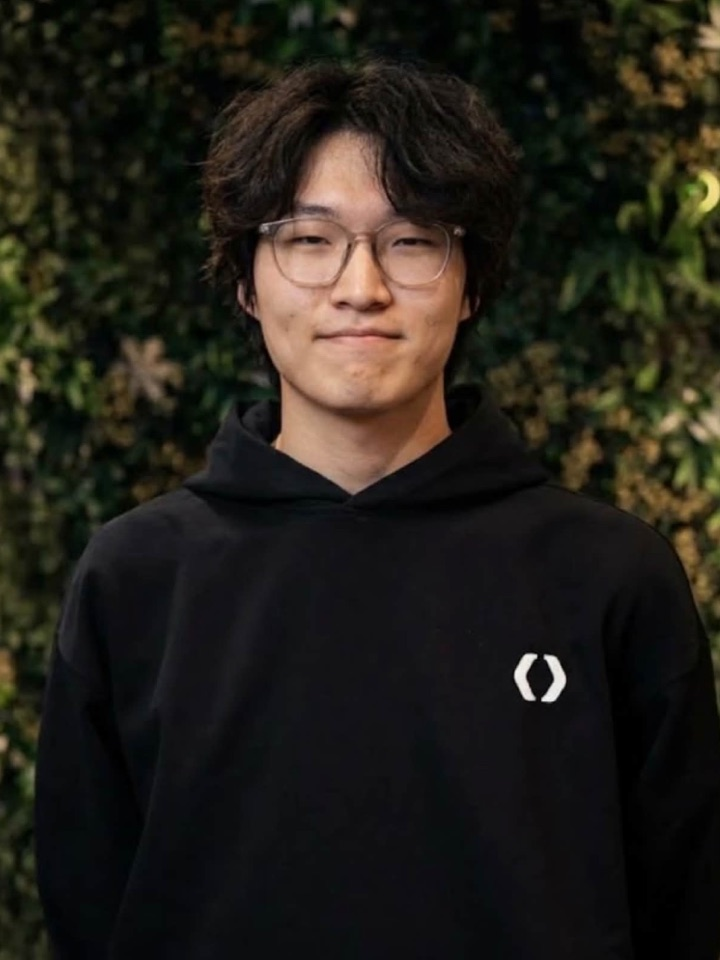
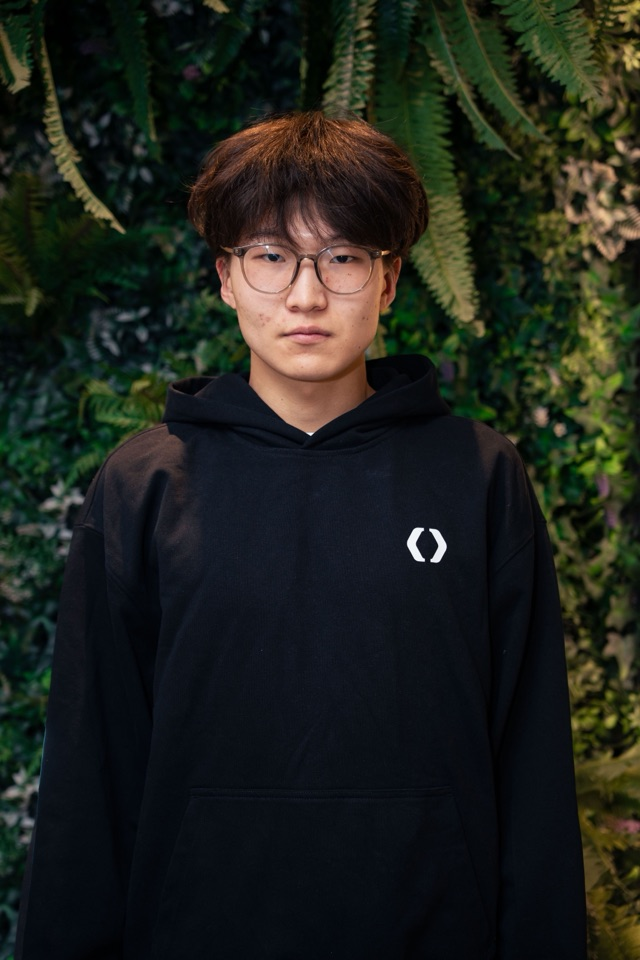
fixed clerk

diff --git a/apps/rareAppMn/rareAppMn-web/src/lib/clerk-ui.ts b/apps/rareAppMn/rareAppMn-web/src/lib/clerk-ui.ts
@@ -39,15 +39,29 @@ export const clerkAppearance = {
   // Clerk's own 14px size and line height stay as they were elsewhere).
   // Below lg: 44px-tall fields and buttons, and invisible 44px tap areas
   // (tap-area/tap-target in global.css) on Clerk's small controls.
+  // Buttons match the site's pills (Navbar): flat ink, bold uppercase, accent
+  // on hover, no Clerk gradient sheen (::after) or arrow icon.
   elements: {
     cardBox: "rounded-2xl border border-ink/10 shadow-none",
-    headerTitle: "font-bold tracking-tight",
+    headerTitle: "text-xl font-bold tracking-tight",
+    headerSubtitle: "leading-relaxed text-ink-soft",
     formButtonPrimary:
-      "rounded-full font-semibold uppercase tracking-wider shadow-none transition-colors duration-200 hover:bg-accent max-lg:min-h-11",
-    socialButtonsBlockButton: "rounded-full max-lg:min-h-11",
-    formFieldInput: "rounded-xl max-sm:text-base max-lg:min-h-11",
-    otpCodeFieldInput: "rounded-xl max-sm:text-base",
-    formFieldInputShowPasswordButton: "max-lg:tap-area",
+      "h-10 rounded-full bg-ink text-[13px] font-bold uppercase tracking-wider text-paper shadow-none transition-colors duration-200 after:hidden hover:bg-accent focus-visible:shadow-[0_0_0_2px_var(--card),0_0_0_4px_var(--accent)] disabled:opacity-50 max-lg:min-h-11",
+    buttonArrowIcon: "hidden",
+    socialButtonsBlockButton:
+      "h-10 rounded-full text-ink shadow-[0_0_0_1px_var(--border-ink)] transition-colors duration-200 hover:bg-ink/[0.04] hover:shadow-[0_0_0_1px_var(--ink)] focus-visible:shadow-[0_0_0_2px_var(--accent)] max-lg:min-h-11",
+    socialButtonsBlockButtonText: "font-semibold text-ink",
+    formFieldInput:
+      "h-10 rounded-xl max-sm:text-base max-lg:min-h-11 focus-visible:shadow-[0_0_0_2px_var(--accent)]",
+    formFieldErrorText: "text-destructive",
+    // One wide tap area (Clerk's hidden input spans the row), so the boxes
+    // can stay 40-44px wide and still fit a 375px screen.
+    otpCodeFieldInputs: "gap-2",
+    otpCodeFieldInput: "h-12 w-10 rounded-xl text-lg font-semibold sm:w-11",
+    otpCodeFieldErrorText: "text-destructive",
+    formResendCodeLink:
+      "font-semibold text-accent hover:text-accent disabled:font-normal disabled:text-ink-soft disabled:opacity-100 max-lg:tap-target",
+    footerActionText: "text-ink-soft",
     footerActionLink: "font-semibold text-accent hover:text-accent max-lg:tap-target",
     formFieldAction: "text-accent hover:text-accent max-lg:tap-target",
     identityPreviewEditButton: "text-accent max-lg:tap-area",
@@ -57,6 +71,20 @@ export const clerkAppearance = {
     menuButton: "max-lg:tap-area",
     // Sits just above "add email"/"connect account": widen it, not taller.
     menuButtonEllipsis: "max-lg:after:absolute max-lg:after:-inset-x-2.5 max-lg:after:inset-y-0",
+  },
+} satisfies ClerkAppearance;
+
+/**
+ * <SignIn /> and <SignUp /> only: one flat card like the site's own (Clerk
+ * otherwise raises the form on top of a tinted footer), as wide as the
+ * column in AuthPageShell.
+ */
+export const authCardAppearance = {
+  elements: {
+    rootBox: "w-full",
+    cardBox: "w-full",
+    card: "rounded-none bg-card px-5 py-8 shadow-none sm:px-10",
+    footer: "border-t border-ink/10 bg-card",
   },
 } satisfies ClerkAppearance;
 
@@ -103,14 +131,10 @@ const MN_OVERRIDES = {
     action__openUserMenu: "Хэрэглэгчийн цэс нээх",
     action__closeUserMenu: "Хэрэглэгчийн цэс хаах",
   },
-  formFieldInputPlaceholder__signUpPassword: "Нууц үг үүсгэх",
   formFieldInput__emailAddress_format: "Жишээ: name@example.com",
   formFieldLabel__passkeyName: "Passkey-н нэр",
   signIn: {
     start: { titleCombined: "{{applicationName}} руу үргэлжлүүлэх" },
-    passwordPwned: { title: "Нууц үг алдагдсан байна" },
-    passwordCompromised: { title: "Нууц үг алдагдсан байна" },
-    passwordUntrusted: { title: "Нууц үг найдваргүй байна" },
     emailLink: {
       clientMismatch: {
         title: "Энэ төхөөрөмж дээр баталгаажуулах холбоос ажиллахгүй",
@@ -150,6 +174,15 @@ const MN_OVERRIDES = {
       },
     },
   },
+  // mnMN's versions read like machine translation ("identifier not found",
+  // "the form's code is wrong"); the "exists" one is missing (English).
+  unstable__errors: {
+    form_identifier_not_found:
+      "Энэ имэйл хаягаар бүртгэл олдсонгүй. Доорх «Бүртгүүлэх» холбоосоор бүртгүүлнэ үү.",
+    form_identifier_exists__email_address:
+      "Энэ имэйл хаяг бүртгэлтэй байна. Доорх «Нэвтрэх» холбоосоор нэвтэрнэ үү.",
+    form_code_incorrect: "Код буруу байна. Дахин оролдоно уу.",
+  },
   userProfile: {
     emailAddressPage: {
       formHint: "Имэйл хаягийг бүртгэлдээ нэмэхийн өмнө баталгаажуулах шаардлагатай.",
@@ -165,14 +198,6 @@ const MN_OVERRIDES = {
         menuAction__destructive: "Устгах",
       },
     },
-  },
-  unstable__errors: {
-    form_password_matches_identifier:
-      "Нууц үг таны имэйл, утасны дугаар эсвэл хэрэглэгчийн нэртэй адил байж болохгүй. Өөр нууц үг сонгоно уу.",
-    form_password_pwned__sign_in:
-      "Энэ нууц үг алдагдсан нууц үгсийн жагсаалтад байгаа тул ашиглах боломжгүй. Нууц үгээ сэргээнэ үү.",
-    form_password_untrusted__sign_in:
-      "Таны нууц үг алдагдсан байж болзошгүй. Өөр аргаар нэвтэрнэ үү; нэвтэрсний дараа нууц үгээ солих шаардлагатай.",
   },
 } satisfies ClerkLocalization;
 

diff --git a/apps/rareAppMn/rareAppMn-web/src/components/auth/AuthPageShell.tsx b/apps/rareAppMn/rareAppMn-web/src/components/auth/AuthPageShell.tsx
@@ -9,13 +9,14 @@ export function AuthPageShell({ children }: { children: ReactNode }) {
     <div className="min-h-screen bg-paper text-ink">
       <Navbar />
 
-      <main className="mx-auto flex max-w-[1440px] flex-col items-center px-5 py-12 sm:px-8 sm:py-16">
-        <p className="max-w-md text-center text-sm leading-relaxed text-ink/70">
+      {/* One column: the intro, the note and Clerk's card share a width. */}
+      <main className="mx-auto flex w-full max-w-md flex-col items-center px-5 py-10 sm:px-0 sm:py-16">
+        <p className="text-center text-sm leading-relaxed text-ink-soft">
           Сургуулийн дэлгэрэнгүй мэдээллийг үзэхийн тулд нэвтэрнэ үү. Бүртгэлгүй бол
           бүртгүүлээрэй.
         </p>
         <SignUpAgainNote />
-        <div className="mt-8 flex w-full justify-center">{children}</div>
+        <div className="mt-6 w-full">{children}</div>
       </main>
 
       <Footer />

diff --git a/apps/rareAppMn/rareAppMn-web/src/app/profile/account/[[...account]]/page.tsx b/apps/rareAppMn/rareAppMn-web/src/app/profile/account/[[...account]]/page.tsx
@@ -9,7 +9,7 @@ export const metadata: Metadata = {
   robots: { index: false, follow: false },
 };
 
-// Clerk's account screens (name, photo, email, password, Google account,
+// Clerk's account screens (name, photo, email, Google account,
 // devices) on their own sub-routes, e.g. /profile/account/security.
 export default function AccountSettingsPage() {
   return (
@@ -19,7 +19,8 @@ export default function AccountSettingsPage() {
       appearance={{
         elements: {
           rootBox: "w-full",
-          cardBox: "w-full max-w-none",
+          // Fit the content instead of Clerk's fixed 44rem height.
+          cardBox: "h-auto min-h-[28rem] w-full max-w-none",
         },
       }}
     />

diff --git a/apps/rareAppMn/rareAppMn-web/src/components/auth/SignUpAgainNote.tsx b/apps/rareAppMn/rareAppMn-web/src/components/auth/SignUpAgainNote.tsx
@@ -7,7 +7,7 @@ import { Info } from "lucide-react";
  */
 export function SignUpAgainNote() {
   return (
-    <p className="mt-6 flex max-w-md items-start gap-3 rounded-2xl border border-accent/25 bg-accent/[0.06] px-4 py-3 text-sm leading-relaxed text-ink">
+    <p className="mt-6 flex w-full items-start gap-3 rounded-2xl border border-accent/25 bg-accent/[0.06] px-4 py-3 text-sm leading-relaxed text-ink">
       <Info className="mt-0.5 size-4 shrink-0 text-accent" aria-hidden />
       <span>
         Нэвтрэх системээ шинэчиллээ. Өмнө нь бүртгэлтэй байсан бол өмнөх имэйл

diff --git a/apps/rareAppMn/rareAppMn-web/src/app/sign-in/[[...sign-in]]/page.tsx b/apps/rareAppMn/rareAppMn-web/src/app/sign-in/[[...sign-in]]/page.tsx
@@ -3,6 +3,7 @@ import { SignIn } from "@clerk/nextjs";
 import { AuthPageShell } from "@/components/auth/AuthPageShell";
 import { PAGE_SEO } from "@/lib/seo";
 import { pageMetadata } from "@/lib/site";
+import { authCardAppearance } from "@/lib/clerk-ui";
 
 export const metadata: Metadata = {
   ...pageMetadata(PAGE_SEO.signIn),
@@ -12,7 +13,7 @@ export const metadata: Metadata = {
 export default function SignInPage() {
   return (
     <AuthPageShell>
-      <SignIn />
+      <SignIn appearance={authCardAppearance} />
     </AuthPageShell>
   );
 }

diff --git a/apps/rareAppMn/rareAppMn-web/src/app/sign-up/[[...sign-up]]/page.tsx b/apps/rareAppMn/rareAppMn-web/src/app/sign-up/[[...sign-up]]/page.tsx
@@ -3,6 +3,7 @@ import { SignUp } from "@clerk/nextjs";
 import { AuthPageShell } from "@/components/auth/AuthPageShell";
 import { PAGE_SEO } from "@/lib/seo";
 import { pageMetadata } from "@/lib/site";
+import { authCardAppearance } from "@/lib/clerk-ui";
 
 export const metadata: Metadata = {
   ...pageMetadata(PAGE_SEO.signUp),
@@ -12,7 +13,7 @@ export const metadata: Metadata = {
 export default function SignUpPage() {
   return (
     <AuthPageShell>
-      <SignUp />
+      <SignUp appearance={authCardAppearance} />
     </AuthPageShell>
   );
 }

diff --git a/apps/rareAppMn/rareAppMn-web/src/lib/seo.ts b/apps/rareAppMn/rareAppMn-web/src/lib/seo.ts
@@ -54,7 +54,7 @@ export const PAGE_SEO = {
   account: {
     path: "/profile/account",
     title: `Бүртгэлийн тохиргоо — ${BRAND}`,
-    description: "Нэвтрэх хаяг, нууц үг болон бүртгэлийн тохиргоогоо удирдах.",
+    description: "Нэвтрэх хаяг болон бүртгэлийн тохиргоогоо удирдах.",
   },
   admin: {
     path: "/admin",
